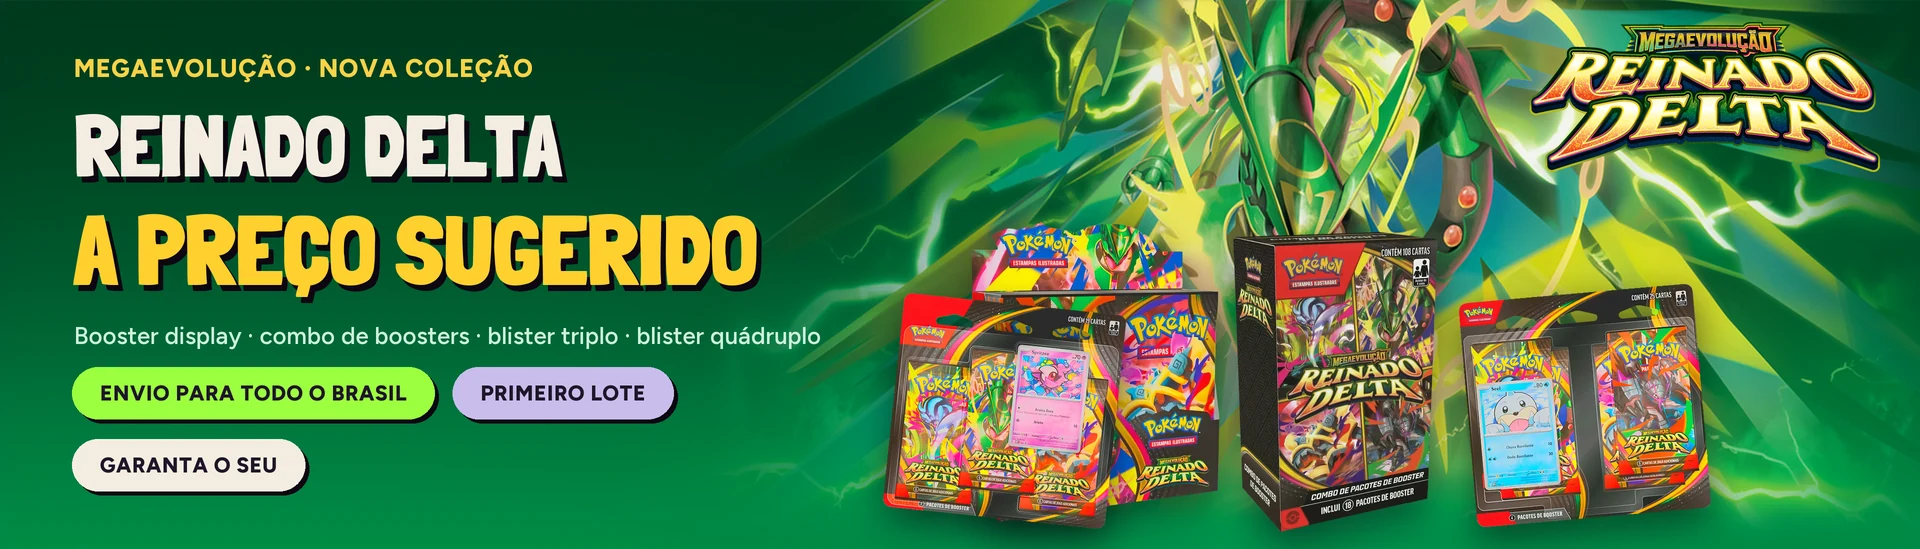
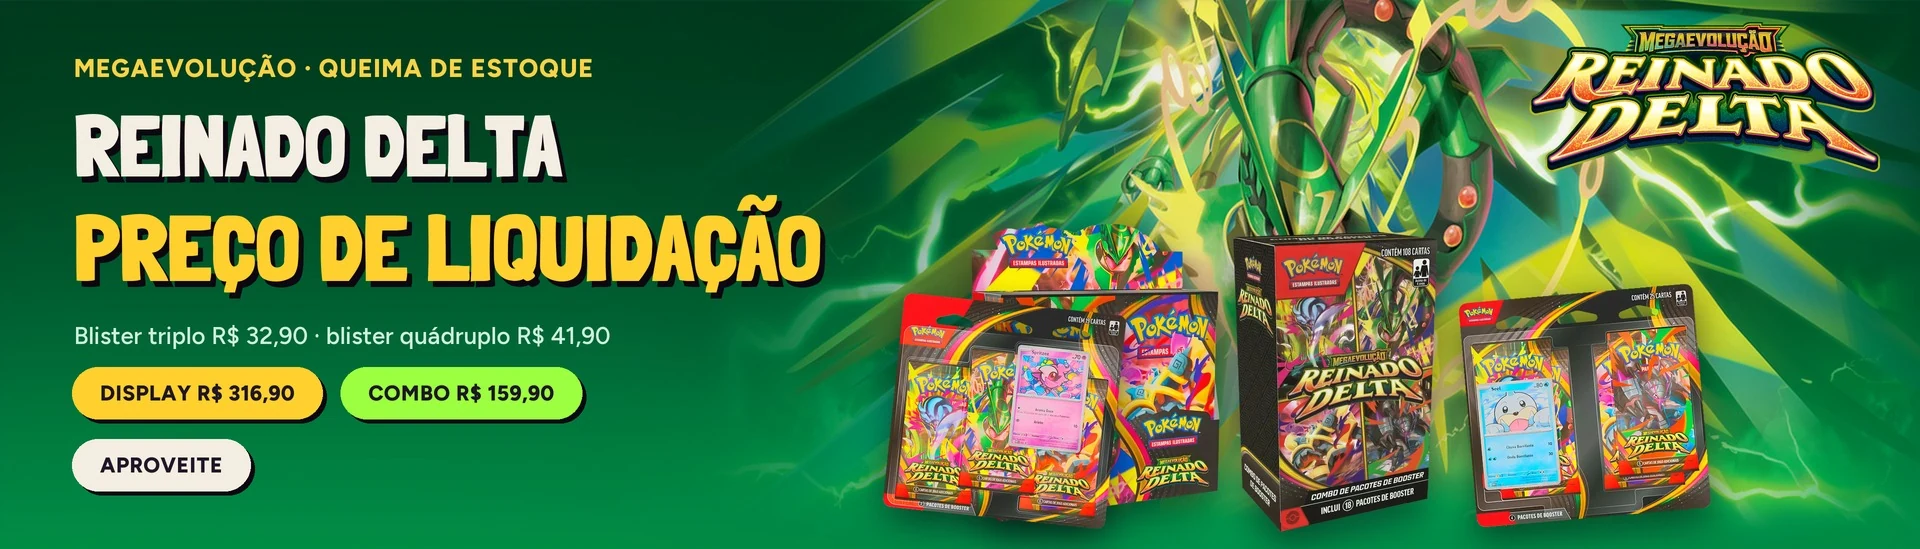
Slide Reinado Delta em preço de liquidação (display 316,90, combo 159,90, triplo 32,90, quádruplo 41,90)
Feito a partir do commit no ar (689873e), sem a busca.js de 243f7be, que ainda não foi publicada.

diff --git a/dist/mm.js b/dist/mm.js
@@ -50,7 +50,7 @@ try {
 
   const SLIDES = [
     { banner: "banner-reinado-delta", href: "/search/?q=reinado%20delta",
-      texto: "Reinado Delta a preço sugerido: booster display, combo de boosters e blisters" },
+      texto: "Reinado Delta em preço de liquidação: display R$ 316,90, combo de boosters R$ 159,90, blister triplo R$ 32,90 e quádruplo R$ 41,90" },
     { banner: "banner-cartas-avulsas", href: "/cartas-avulsas/",
       texto: "Cartas avulsas BR, EN e JP: Pikachu ex, Mega Charizard X ex e Dialga V-ASTRO" },
     { banner: "banner-acessorios", href: "/acessorios/",

diff --git a/src/js/hero.js b/src/js/hero.js
@@ -30,7 +30,7 @@
 
   const SLIDES = [
     { banner: "banner-reinado-delta", href: "/search/?q=reinado%20delta",
-      texto: "Reinado Delta a preço sugerido: booster display, combo de boosters e blisters" },
+      texto: "Reinado Delta em preço de liquidação: display R$ 316,90, combo de boosters R$ 159,90, blister triplo R$ 32,90 e quádruplo R$ 41,90" },
     { banner: "banner-cartas-avulsas", href: "/cartas-avulsas/",
       texto: "Cartas avulsas BR, EN e JP: Pikachu ex, Mega Charizard X ex e Dialga V-ASTRO" },
     { banner: "banner-acessorios", href: "/acessorios/",
